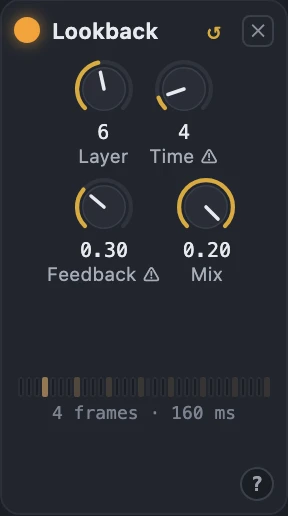
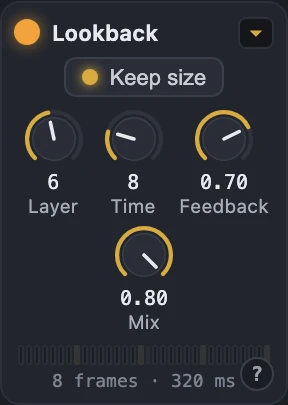
Home page: Lookback's card re-taken at its default (Feedback Loop, Keep size on)

diff --git a/docs/index.html b/docs/index.html
@@ -239,7 +239,7 @@
           <figcaption><b><a href="units.html#u-beatrepeat">Frame Repeat</a></b><span class="uwhat">In every run of positions, replays the stream of the few positions before over the last few: a stutter</span></figcaption>
         </figure>
         <figure class="ucard">
-          <a class="shot" href="img/strips/delay.webp" data-cap="Lookback on the Model layers row, at the defaults measured on this engine. Its card on the Model layers page has its sweep to listen to."><img src="img/strips/delay.webp" width="288" height="516" loading="lazy" alt="The Lookback strip at its defaults."></a>
+          <a class="shot" href="img/strips/delay.webp" data-cap="Lookback on the Model layers row at its default, the Feedback Loop preset: time 8 frames, feedback 0.7, mix 0.8, Keep size on. Its card on the Model layers page has its sweep to listen to."><img src="img/strips/delay.webp" width="288" height="405" loading="lazy" alt="The Lookback card at its default: Keep size on, Layer 6, Time 8, Feedback 0.70, Mix 0.80, and its row of taps reading 8 frames, 320 ms."></a>
           <figcaption><b><a href="units.html#u-delay">Lookback</a></b><span class="uwhat">Adds the stream from some positions back: an echo, with feedback</span></figcaption>
         </figure>
         <figure class="ucard">
